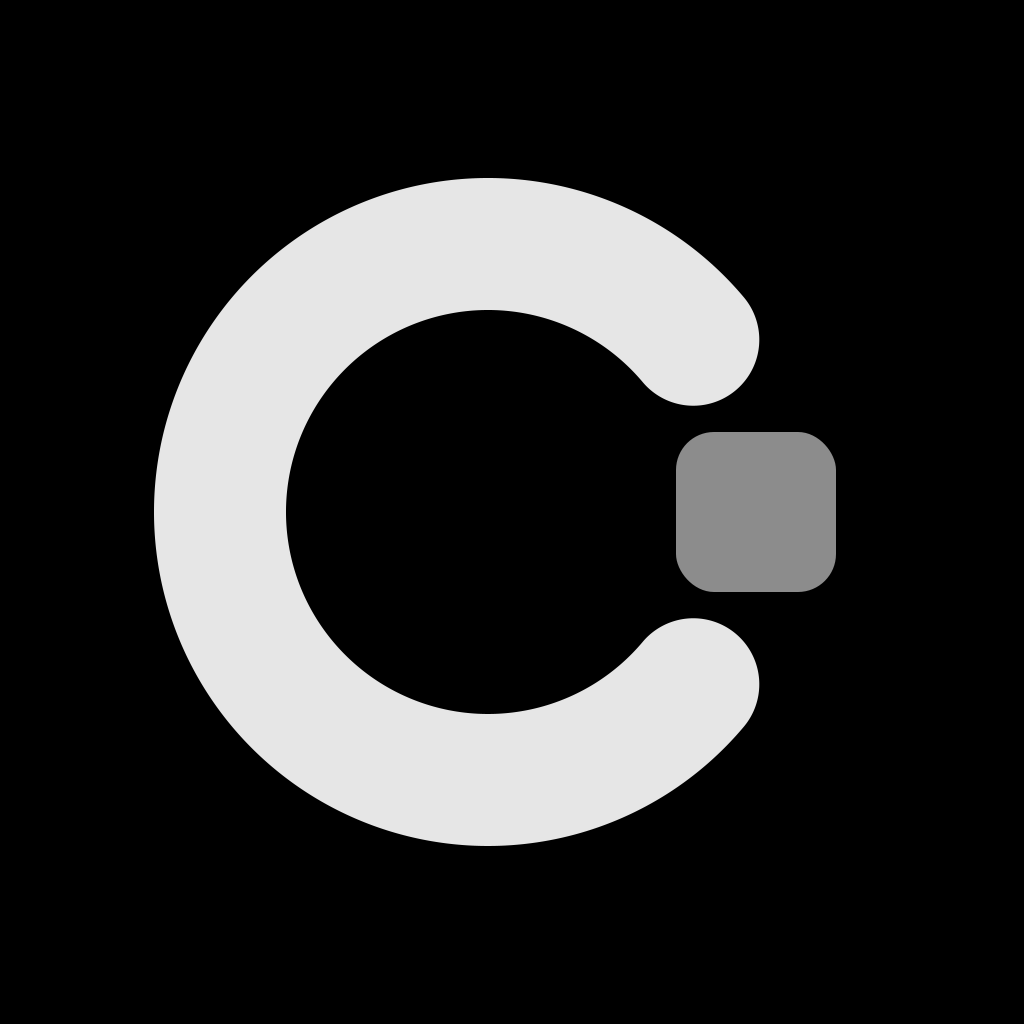
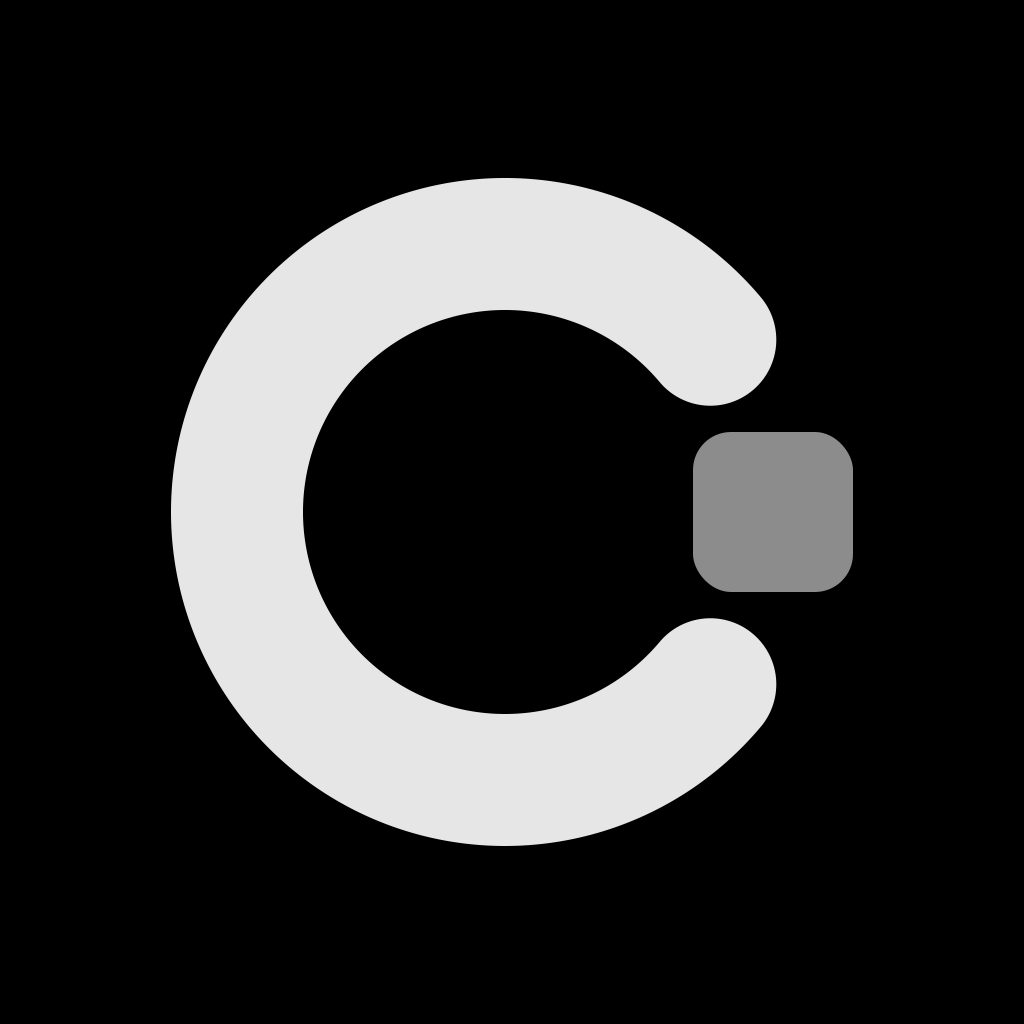
fix: apple-hig skill でアイコンを照合・修正（ダーク透過、中央寄せ、sRGB プロファイル）
Claude-Session: https://claude.ai/code/session_017VFkwRrkAKapFJ8GvmWaB3

diff --git a/scripts/brand/build_icons.py b/scripts/brand/build_icons.py
@@ -36,6 +36,7 @@ TALLY = "#FF453A"         # タリー（PGM の赤）
 WHITE = "#FFFFFF"
 DARK_TOP = "#2C2C2E"      # 背景グラデーション（ダーク）
 DARK_BOTTOM = "#0B0B0D"
+DARK_INK = "#E5E5EA"      # c（ダーク）
 
 # 形（1024 グリッド）
 CX, CY, R = 488, 512, 268
@@ -57,6 +58,16 @@ def ring_d():
             f"A{rc} {rc} 0 0 0 {i1[0]:.2f} {i1[1]:.2f} "
             f"A{ri} {ri} 0 1 1 {i0[0]:.2f} {i0[1]:.2f} "
             f"A{rc} {rc} 0 0 0 {o0[0]:.2f} {o0[1]:.2f} Z")
+
+
+# 前景（c＋タリー）の外接範囲の中心を 1024 の中央に合わせるずらし量（apple-hig：主要コンテンツは中央に）
+CENTER_DX = 512 - ((CX - R - STROKE / 2) + (TALLY_BOX[0] + TALLY_BOX[2])) / 2   # +17
+ICON_FG = f'transform="translate({CENTER_DX:.1f},0)"'
+
+
+def fg(body):
+    """アプリアイコン用の前景グループ（中央寄せ）。"""
+    return f"<g {ICON_FG}>{body}</g>"
 
 
 def ring_path(color, ox=0.0, oy=0.0, scale=1.0):
@@ -84,7 +95,8 @@ def bg_light(gid="bg"):
 
 
 def icon_light():
-    return svg(1024, 1024, bg_light() + ring_path(INK) + tally(TALLY), "conductor icon")
+    # apple-hig：1024×1024、角丸なし・不透明
+    return svg(1024, 1024, bg_light() + fg(ring_path(INK) + tally(TALLY)), "conductor icon")
 
 
 def bg_dark(gid="bgd"):
@@ -94,13 +106,15 @@ def bg_dark(gid="bgd"):
 
 
 def icon_dark():
-    # HIG：標準アイコンを元に、落ち着いた配色で。透過させない（Expo：透過ピクセル不可）
-    return svg(1024, 1024, bg_dark() + ring_path(WHITE) + tally(TALLY), "conductor icon dark")
+    # apple-hig：dark はライトを基にした落ち着いた配色、フラット画像なら透過背景（システムが暗い背景を敷く）
+    # 白は明るすぎないよう少し落とす（App icons：avoid excessively bright images）
+    return svg(1024, 1024, fg(ring_path(DARK_INK) + tally(TALLY)), "conductor icon dark")
 
 
 def icon_tinted():
     # ティント用：グレースケールのみ（Gray Gamma 相当）・不透過。色はシステムが付ける
-    return svg(1024, 1024, rr(0, 0, 1024, 1024, 0, "#000000") + ring_path("#E6E6E6") + tally("#8C8C8C"), "conductor icon tinted")
+    # apple-hig：tinted はグレースケール（色はシステムが付ける）
+    return svg(1024, 1024, rr(0, 0, 1024, 1024, 0, "#000000") + fg(ring_path("#E6E6E6") + tally("#8C8C8C")), "conductor icon tinted")
 
 
 def layer_background():
@@ -108,11 +122,11 @@ def layer_background():
 
 
 def layer_ring():
-    return svg(1024, 1024, ring_path(INK), "layer ring")
+    return svg(1024, 1024, fg(ring_path(INK)), "layer ring")
 
 
 def layer_tally():
-    return svg(1024, 1024, tally(TALLY), "layer tally")
+    return svg(1024, 1024, fg(tally(TALLY)), "layer tally")
 
 
 # ---------------------------------------------------------------------------
@@ -181,7 +195,7 @@ def sheet():
     y = 190
     s += rr(40, y, W - 80, 380, 24, "#FFFFFF")
     s += f'<text x="72" y="{y + 44}" font-family="{JP}" font-size="22" font-weight="700" fill="#1C1C1E">アプリアイコン</text>'
-    items = [(icon_light(), "標準 icon.png", None), (icon_dark(), "ダーク icon-dark.png", None),
+    items = [(icon_light(), "標準 icon.png", None), (icon_dark(), "ダーク icon-dark.png（透過）", "#121214"),
              (icon_tinted(), "ティント icon-tinted.png（グレーのみ）", None)]
     for i, (sv, lab, under) in enumerate(items):
         x = 72 + i * 380
@@ -222,6 +236,16 @@ def sheet():
     return svg(W, H, s, "conductor brand sheet")
 
 
+def embed_srgb(path):
+    """apple-hig（Color / Images）：画像にカラープロファイルを含める。sRGB を埋め込む。"""
+    from PIL import Image, ImageCms  # noqa: PLC0415
+
+    im = Image.open(path)
+    im.load()
+    prof = ImageCms.ImageCmsProfile(ImageCms.createProfile("sRGB")).tobytes()
+    im.save(path, icc_profile=prof)
+
+
 def write(path, text):
     os.makedirs(os.path.dirname(path), exist_ok=True)
     with open(path, "w", encoding="utf-8") as f:
@@ -252,7 +276,9 @@ def main():
         write(os.path.join(BRAND, name), text)
     os.makedirs(ASSETS, exist_ok=True)
     for src, dst in [("icon-light.svg", "icon.png"), ("icon-dark.svg", "icon-dark.png"), ("icon-tinted.svg", "icon-tinted.png")]:
-        cairosvg.svg2png(bytestring=files[src].encode("utf-8"), write_to=os.path.join(ASSETS, dst), output_width=1024, output_height=1024)
+        out = os.path.join(ASSETS, dst)
+        cairosvg.svg2png(bytestring=files[src].encode("utf-8"), write_to=out, output_width=1024, output_height=1024)
+        embed_srgb(out)
         print("wrote", os.path.join("assets/images", dst))
     sh = sheet()
     write(os.path.join(BRAND, "brand-sheet.svg"), sh)

diff --git a/docs/brand/README.md b/docs/brand/README.md
@@ -7,30 +7,37 @@
 | ファイル | 用途 |
 |---|---|
 | `icon-light.svg` → `assets/images/icon.png` | アプリアイコン（標準）1024×1024、角丸なし・不透明 |
-| `icon-dark.svg` → `assets/images/icon-dark.png` | ダーク外観（標準を元に暗い背景。不透過） |
-| `icon-tinted.svg` → `assets/images/icon-tinted.png` | ティント（グレースケールのみ・不透過） |
+| `icon-dark.svg` → `assets/images/icon-dark.png` | ダーク外観（透過背景。c は `#E5E5EA`、タリーは赤のまま） |
+| `icon-tinted.svg` → `assets/images/icon-tinted.png` | ティント（グレースケールのみ） |
 | `layer-ring.svg` / `layer-tally.svg` | Icon Composer 用の前景レイヤー（アウトライン化した面、縁のぼかし・効果なし） |
 | `layer-background.svg` | 参考用。背景は Icon Composer のグラデーション指定（`#F7F7F9`→`#DADAE0`）で作る |
 | `mark.svg` / `mark-white.svg` / `mark-mono-black.svg` / `mark-mono-white.svg` | マーク単体 |
 | `wordmark.svg` / `wordmark-white.svg` | 文字だけ |
 | `lockup.svg` / `lockup-white.svg` | マーク＋文字 |
 
-- 色：c は `#1C1C1E`（ダーク・ティントでは白）、背景 `#F7F7F9`→`#DADAE0`、タリー `#FF453A`。これはブランド用で、アプリ UI の色はシステム色（PlatformColor）を使う
+- 色：c は `#1C1C1E`（ダークは `#E5E5EA`、ティントは `#E6E6E6`）、背景 `#F7F7F9`→`#DADAE0`、タリー `#FF453A`。これはブランド用で、アプリ UI の色はシステム色（PlatformColor）を使う
 - 文字：Inter Display SemiBold（SIL Open Font License 1.1）をパスに変換。フォント自体は同梱しない
 - HIG に合わせて、起動画面にはロゴを置かない。アプリ内でロゴを出すのは「このアプリについて」だけ
 - Expo では実装時に `app.json` の `ios.icon` に `{ light: icon.png, dark: icon-dark.png, tinted: icon-tinted.png }` を指定する（SDK のドキュメントで書式を確認してから）
 
-## HIG（App icons, 2026-06-08 改訂版）との対応
+## apple-hig skill による照合（App icons／Color／Images／Dark Mode／SF Symbols）
 
-| HIG の指針 | この一式 |
-|---|---|
-| 正方形・マスクなしのレイヤー（角丸はシステム） | 1024×1024 の正方形、角丸なし |
-| 前景はくっきりした縁、ベクターでアウトライン化、文字もアウトライン化 | c は線ではなく塗りの輪郭パス、文字はパス化 |
-| 光沢・影・ベベル・ぼかしはシステムに任せる | 効果なし（以前付けていたタリーの白い縁は削除） |
-| 背景は単色かグラデーション、Icon Composer で指定できる | 縦グラデーション 2 色 |
-| シンプル、少ない形、主要な内容は中央 | 形は c とボタンの 2 つ、中央寄せ |
-| 文字は必要な時だけ（頭文字は可） | 頭文字 c だけ |
-| 外観（標準・ダーク・クリア・ティント）で特徴を変えない | 全外観で c＋赤ボタンの形は同じ。クリアはシステムが生成 |
-| ダークは標準を元に、落ち着いた配色、色付き背景はコントラストが出やすい | 暗いグレーのグラデーション背景＋白い c＋赤ボタン |
+| skill の指針 | この一式 | 判定 |
+|---|---|---|
+| アプリアイコン：1024×1024、角丸なし・不透明 | `icon.png` 1024×1024、角丸なし、全ピクセル不透明 | OK |
+| 外観変種：dark はライトを基にした落ち着いた配色、フラット画像なら透過背景 | `icon-dark.png` 背景透過、c は真っ白でなく `#E5E5EA` | OK |
+| 外観変種：tinted はグレースケール | `icon-tinted.png` グレーのみ | OK |
+| コア要素は全変種で同じ／用意しない変種はシステムが自動生成 | 全変種で c＋ボタンの形と位置は同じ。clear はシステム生成に任せる | OK |
+| シンプルに。単一の概念を最小の形で、背景は単色かグラデーション | 形は c とボタンの 2 つ、背景は 2 色の縦グラデーション | OK |
+| レイヤーで作る：前景は輪郭のはっきりした塗り形状、ベクター優先 | 前景 2 枚（c・ボタン）を塗りのアウトラインパスの SVG で用意 | OK |
+| マスク済みの形を渡さない。主要コンテンツは中央に | 正方形のまま。前景の外接範囲の中心を (512, 512) に合わせた（x を +17 移動） | OK（今回修正） |
+| ハイライト・影・ベベル・ブラーを自前で描かない | 効果なし（タリーの白い縁を削除済み） | OK |
+| テキストはブランドや体験に必須な場合のみ | 頭文字 c を形として使うだけ。単語は入れない | OK（原文：頭文字は認識の助けになる） |
+| UI の複製・写真・Apple ハードウェアの複製は使わない | 使っていない | OK |
+| SF Symbols をアプリアイコン・ロゴに使わない | 使っていない（c は Inter Display の字形ではなく自作の円弧） | OK |
+| 対応色空間 sRGB / Gray Gamma 2.2 / Display P3、画像にカラープロファイルを含める | PNG 3 枚に sRGB の ICC プロファイルを埋め込み | OK（今回修正） |
+| レイヤー（Icon Composer）推奨 | Icon Composer は Mac 専用で使えないため、PNG 方式（Expo `ios.icon` の `light`/`dark`/`tinted`）。レイヤー SVG は将来用に保持 | 代替 |
 
-- 最終的には Icon Composer（Mac アプリ）でレイヤーを読み込み `.icon` を作るのが推奨（Expo SDK 54 以降は `ios.icon` に `.icon` を指定可）。Mac が無い間は PNG 3 枚（`ios.icon` の `light` / `dark` / `tinted`）で出す。Expo の要件：正方形・角丸なし・透過ピクセルなし
+### 確認が要る点
+- Expo のドキュメントは PNG アイコンに「透過ピクセル不可」と書いている。一方 apple-hig skill（App icons）は dark を透過背景にする。**skill に従って dark は透過**にした。EAS Build で dark が弾かれた場合は、`bg_dark()`（`#2C2C2E`→`#0B0B0D`）を敷いた不透明版に切り替える（`scripts/brand/build_icons.py` の `icon_dark`）
+- 出典：https://developer.apple.com/design/human-interface-guidelines/app-icons ／ https://docs.expo.dev/guides/app-icons/
